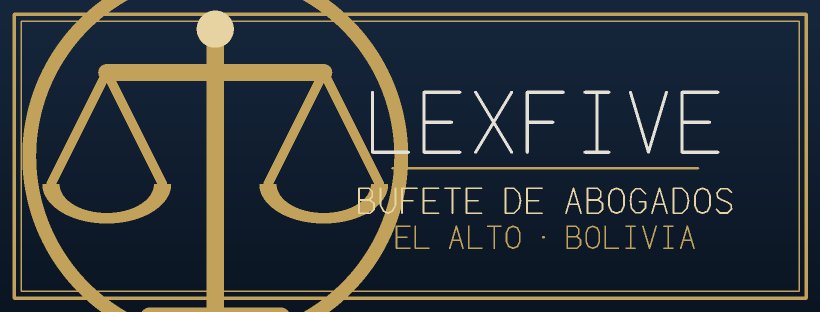
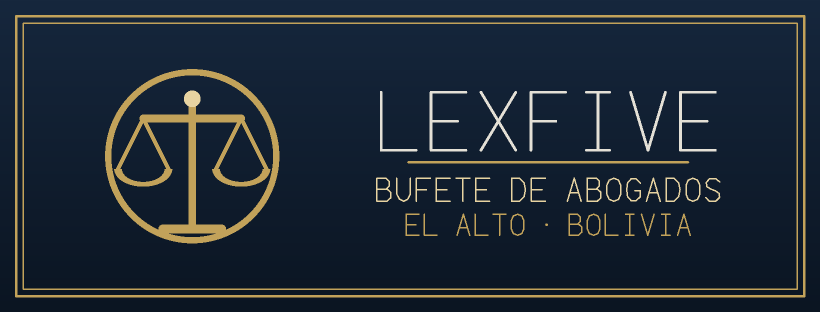
Portada de Facebook reequilibrada + enlace de Facebook integrado en la web
- Portada: balanza mas pequena y centrada, sin salirse del marco ni tocar el texto; composicion centrada.
- Web: enlace 'Siguenos en Facebook' en el pie de pagina de las 6 paginas publicas.
- JSON-LD: se agrega la pagina de Facebook al campo sameAs (index.html).
- CSS: estilo del enlace social en el footer.

Changed region(s): [[0.0, 0.0, 1.0, 1.0]]

diff --git a/scripts/gen_social_images.js b/scripts/gen_social_images.js
@@ -145,13 +145,15 @@ function perfil() {
 function portada() {
   const W = 820, H = 312, c = makeCanvas(W * SS, H * SS);
   bgGradient(c);
-  rectBorder(c, 14 * SS, 14 * SS, (W - 14) * SS, (H - 14) * SS, 3 * SS, GOLD);
-  rectBorder(c, 21 * SS, 21 * SS, (W - 21) * SS, (H - 21) * SS, 1.3 * SS, GOLD);
-  drawScales(c, 215 * SS, 156 * SS, 1.55 * SS);
-  drawTextCentered(c, 'LEXFIVE', 545 * SS, 92 * SS, 6.0 * SS, 3.0 * SS, CREAM);
-  line(c, 392 * SS, 168 * SS, 698 * SS, 168 * SS, 2 * SS, GOLD);
-  drawTextCentered(c, 'BUFETE DE ABOGADOS', 545 * SS, 188 * SS, 2.5 * SS, 1.7 * SS, GOLD_L);
-  drawTextCentered(c, 'EL ALTO \u00B7 BOLIVIA', 545 * SS, 226 * SS, 2.2 * SS, 1.6 * SS, GOLD);
+  rectBorder(c, 16 * SS, 16 * SS, (W - 16) * SS, (H - 16) * SS, 2.4 * SS, GOLD);
+  rectBorder(c, 23 * SS, 23 * SS, (W - 23) * SS, (H - 23) * SS, 1.2 * SS, GOLD);
+  // Balanza más pequeña y centrada verticalmente, sin salirse del marco ni tocar el texto.
+  drawScales(c, 192 * SS, 156 * SS, 0.70 * SS);
+  // Bloque de texto centrado en la mitad derecha; el conjunto (balanza + texto) queda centrado.
+  drawTextCentered(c, 'LEXFIVE', 548 * SS, 92 * SS, 5.8 * SS, 2.8 * SS, CREAM);
+  line(c, 408 * SS, 162 * SS, 688 * SS, 162 * SS, 2 * SS, GOLD);
+  drawTextCentered(c, 'BUFETE DE ABOGADOS', 548 * SS, 178 * SS, 2.3 * SS, 1.5 * SS, GOLD_L);
+  drawTextCentered(c, 'EL ALTO \u00B7 BOLIVIA', 548 * SS, 214 * SS, 2.1 * SS, 1.5 * SS, GOLD);
   return downsample(c, W, H);
 }
 

diff --git a/index.html b/index.html
@@ -75,7 +75,7 @@
         "Derecho Comercial", "Derecho Sucesorio", "Propiedad Intelectual",
         "Derecho Ambiental", "Derecho de Tránsito"
       ],
-      "sameAs": []
+      "sameAs": ["https://www.facebook.com/profile.php?id=61590416447764"]
     }
     </script>
 
@@ -565,6 +565,12 @@
                     </span>
                 </a>
                 <p>Soluciones legales con experiencia, ética y compromiso. Su confianza es nuestro mayor patrimonio.</p>
+                <div class="footer__social">
+                    <a href="https://www.facebook.com/profile.php?id=61590416447764" target="_blank" rel="noopener" aria-label="Síguenos en Facebook">
+                        <svg viewBox="0 0 24 24" width="20" height="20" fill="currentColor" aria-hidden="true"><path d="M22 12.06C22 6.5 17.52 2 12 2S2 6.5 2 12.06c0 5 3.66 9.15 8.44 9.94v-7.03H7.9v-2.9h2.54V9.85c0-2.51 1.49-3.9 3.78-3.9 1.09 0 2.24.2 2.24.2v2.46h-1.26c-1.24 0-1.63.77-1.63 1.56v1.88h2.78l-.44 2.9h-2.34V22c4.78-.79 8.44-4.94 8.44-9.94z"/></svg>
+                        <span>Síguenos en Facebook</span>
+                    </a>
+                </div>
             </div>
             <div class="footer__col">
                 <h4>Enlaces</h4>

diff --git a/aviso-privacidad.html b/aviso-privacidad.html
@@ -149,6 +149,12 @@
                     <span class="logo__text"><strong>LexFive</strong><small>Abogados</small></span>
                 </a>
                 <p>Soluciones legales con experiencia, ética y compromiso. Su confianza es nuestro mayor patrimonio.</p>
+                <div class="footer__social">
+                    <a href="https://www.facebook.com/profile.php?id=61590416447764" target="_blank" rel="noopener" aria-label="Síguenos en Facebook">
+                        <svg viewBox="0 0 24 24" width="20" height="20" fill="currentColor" aria-hidden="true"><path d="M22 12.06C22 6.5 17.52 2 12 2S2 6.5 2 12.06c0 5 3.66 9.15 8.44 9.94v-7.03H7.9v-2.9h2.54V9.85c0-2.51 1.49-3.9 3.78-3.9 1.09 0 2.24.2 2.24.2v2.46h-1.26c-1.24 0-1.63.77-1.63 1.56v1.88h2.78l-.44 2.9h-2.34V22c4.78-.79 8.44-4.94 8.44-9.94z"/></svg>
+                        <span>Síguenos en Facebook</span>
+                    </a>
+                </div>
             </div>
             <div class="footer__col">
                 <h4>Enlaces</h4>

diff --git a/blog.html b/blog.html
@@ -168,6 +168,12 @@
                     <span class="logo__text"><strong>LexFive</strong><small>Abogados</small></span>
                 </a>
                 <p>Soluciones legales con experiencia, ética y compromiso. Su confianza es nuestro mayor patrimonio.</p>
+                <div class="footer__social">
+                    <a href="https://www.facebook.com/profile.php?id=61590416447764" target="_blank" rel="noopener" aria-label="Síguenos en Facebook">
+                        <svg viewBox="0 0 24 24" width="20" height="20" fill="currentColor" aria-hidden="true"><path d="M22 12.06C22 6.5 17.52 2 12 2S2 6.5 2 12.06c0 5 3.66 9.15 8.44 9.94v-7.03H7.9v-2.9h2.54V9.85c0-2.51 1.49-3.9 3.78-3.9 1.09 0 2.24.2 2.24.2v2.46h-1.26c-1.24 0-1.63.77-1.63 1.56v1.88h2.78l-.44 2.9h-2.34V22c4.78-.79 8.44-4.94 8.44-9.94z"/></svg>
+                        <span>Síguenos en Facebook</span>
+                    </a>
+                </div>
             </div>
             <div class="footer__col">
                 <h4>Enlaces</h4>

diff --git a/casos.html b/casos.html
@@ -154,6 +154,12 @@
                     <span class="logo__text"><strong>LexFive</strong><small>Abogados</small></span>
                 </a>
                 <p>Soluciones legales con experiencia, ética y compromiso. Su confianza es nuestro mayor patrimonio.</p>
+                <div class="footer__social">
+                    <a href="https://www.facebook.com/profile.php?id=61590416447764" target="_blank" rel="noopener" aria-label="Síguenos en Facebook">
+                        <svg viewBox="0 0 24 24" width="20" height="20" fill="currentColor" aria-hidden="true"><path d="M22 12.06C22 6.5 17.52 2 12 2S2 6.5 2 12.06c0 5 3.66 9.15 8.44 9.94v-7.03H7.9v-2.9h2.54V9.85c0-2.51 1.49-3.9 3.78-3.9 1.09 0 2.24.2 2.24.2v2.46h-1.26c-1.24 0-1.63.77-1.63 1.56v1.88h2.78l-.44 2.9h-2.34V22c4.78-.79 8.44-4.94 8.44-9.94z"/></svg>
+                        <span>Síguenos en Facebook</span>
+                    </a>
+                </div>
             </div>
             <div class="footer__col">
                 <h4>Enlaces</h4>

diff --git a/faq.html b/faq.html
@@ -148,6 +148,12 @@
                     <span class="logo__text"><strong>LexFive</strong><small>Abogados</small></span>
                 </a>
                 <p>Soluciones legales con experiencia, ética y compromiso. Su confianza es nuestro mayor patrimonio.</p>
+                <div class="footer__social">
+                    <a href="https://www.facebook.com/profile.php?id=61590416447764" target="_blank" rel="noopener" aria-label="Síguenos en Facebook">
+                        <svg viewBox="0 0 24 24" width="20" height="20" fill="currentColor" aria-hidden="true"><path d="M22 12.06C22 6.5 17.52 2 12 2S2 6.5 2 12.06c0 5 3.66 9.15 8.44 9.94v-7.03H7.9v-2.9h2.54V9.85c0-2.51 1.49-3.9 3.78-3.9 1.09 0 2.24.2 2.24.2v2.46h-1.26c-1.24 0-1.63.77-1.63 1.56v1.88h2.78l-.44 2.9h-2.34V22c4.78-.79 8.44-4.94 8.44-9.94z"/></svg>
+                        <span>Síguenos en Facebook</span>
+                    </a>
+                </div>
             </div>
             <div class="footer__col">
                 <h4>Enlaces</h4>

diff --git a/terminos.html b/terminos.html
@@ -142,6 +142,12 @@
                     <span class="logo__text"><strong>LexFive</strong><small>Abogados</small></span>
                 </a>
                 <p>Soluciones legales con experiencia, ética y compromiso. Su confianza es nuestro mayor patrimonio.</p>
+                <div class="footer__social">
+                    <a href="https://www.facebook.com/profile.php?id=61590416447764" target="_blank" rel="noopener" aria-label="Síguenos en Facebook">
+                        <svg viewBox="0 0 24 24" width="20" height="20" fill="currentColor" aria-hidden="true"><path d="M22 12.06C22 6.5 17.52 2 12 2S2 6.5 2 12.06c0 5 3.66 9.15 8.44 9.94v-7.03H7.9v-2.9h2.54V9.85c0-2.51 1.49-3.9 3.78-3.9 1.09 0 2.24.2 2.24.2v2.46h-1.26c-1.24 0-1.63.77-1.63 1.56v1.88h2.78l-.44 2.9h-2.34V22c4.78-.79 8.44-4.94 8.44-9.94z"/></svg>
+                        <span>Síguenos en Facebook</span>
+                    </a>
+                </div>
             </div>
             <div class="footer__col">
                 <h4>Enlaces</h4>

diff --git a/css/styles.css b/css/styles.css
@@ -840,3 +840,15 @@ body.theme-burgundy {
 .legal-doc a { color: var(--gold-dark); text-decoration: underline; }
 .legal-doc a:hover { color: var(--navy); }
 .legal-doc strong { color: var(--navy); }
+
+
+
+/* ===== Enlace social en el pie de página ===== */
+.footer__social { margin-top: 16px; }
+.footer__social a {
+    display: inline-flex; align-items: center; gap: 8px;
+    color: rgba(255, 255, 255, .75); text-decoration: none;
+    font-size: .92rem; font-weight: 500; transition: color .2s ease;
+}
+.footer__social a:hover { color: #c2a25a; }
+.footer__social svg { flex-shrink: 0; }
